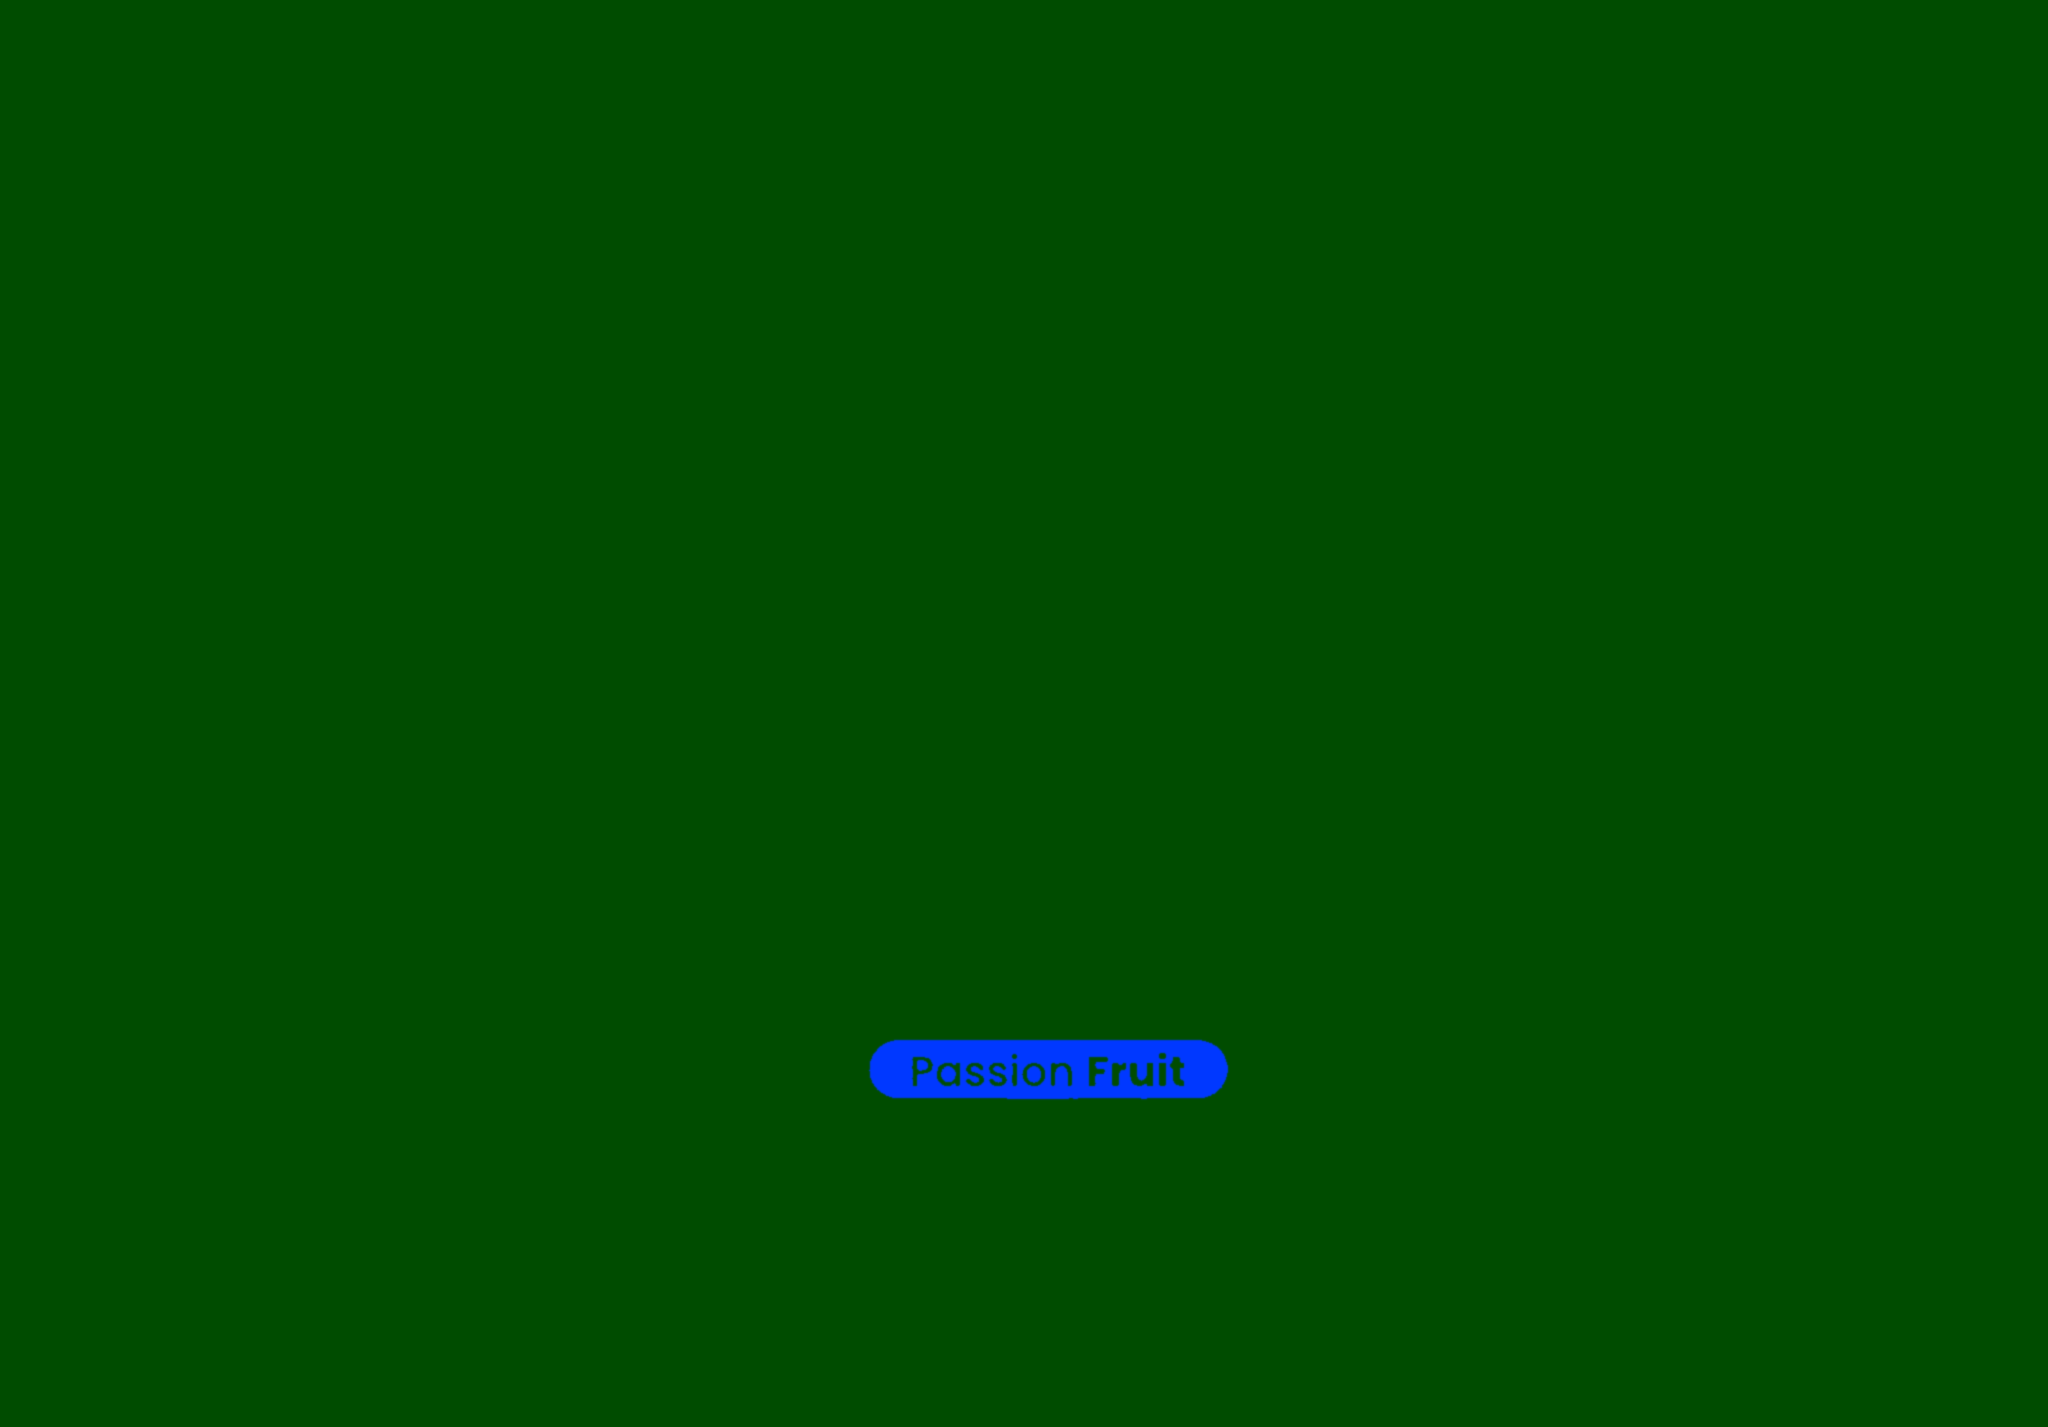
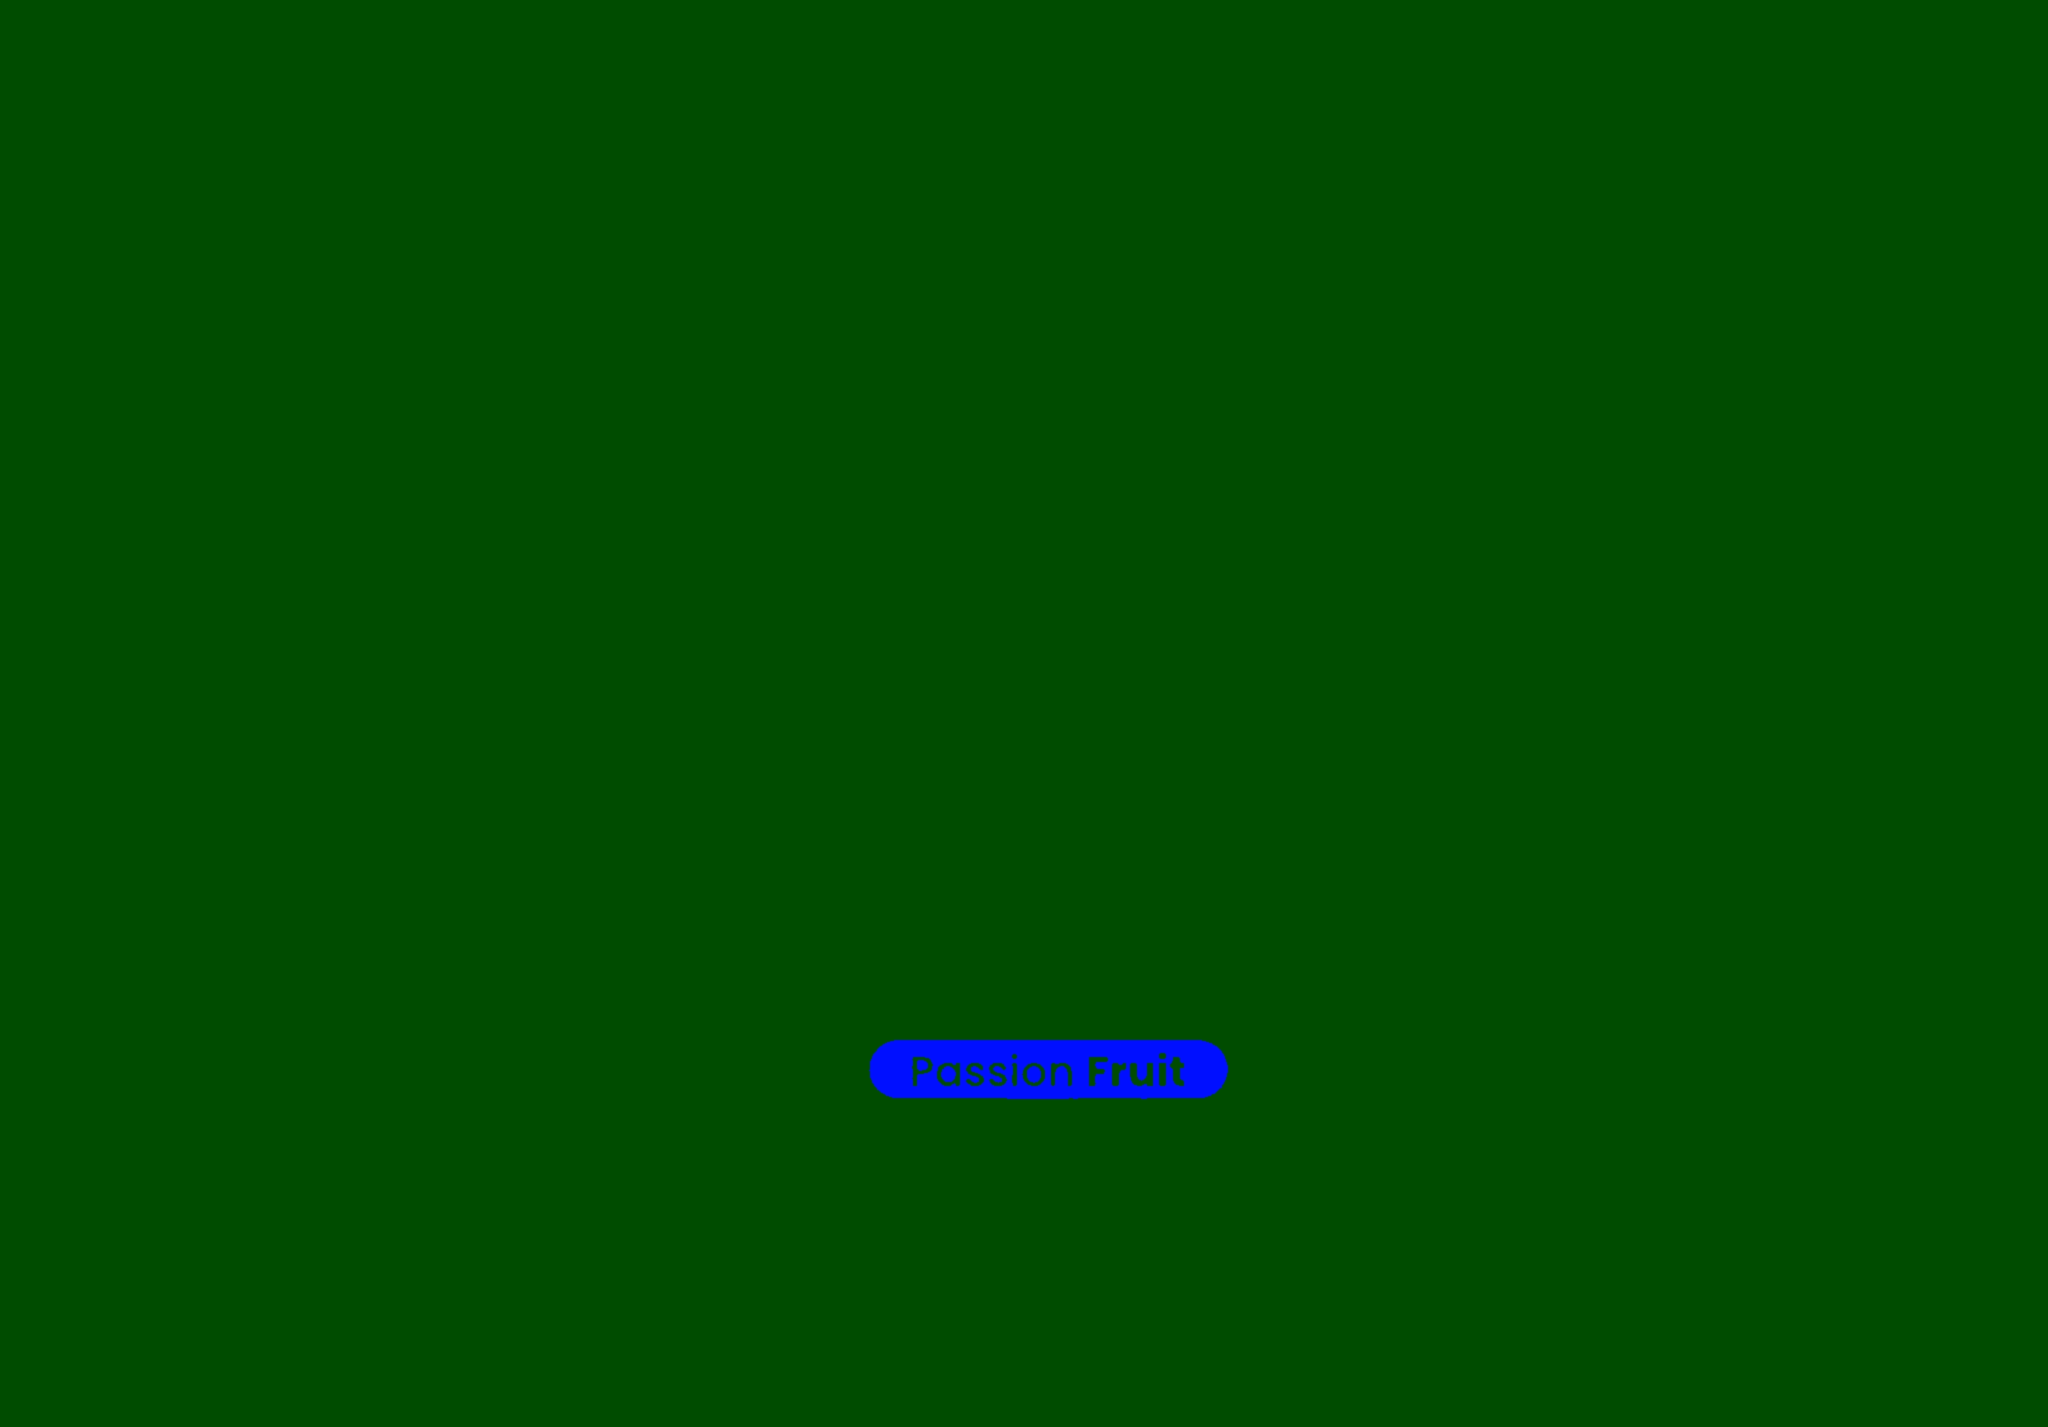
AWAMALA: burbujas que aumentan al bajar y no paran, píldora más metálica, ajustes responsive (320–1920 px)
Claude-Session: https://claude.ai/code/session_01VQkAGi9kU4y9DGeEXDPXZg

Changed region(s): [[0.4062, 0.7092, 0.625, 0.7708]]

diff --git a/awamala/index.html b/awamala/index.html
@@ -42,7 +42,7 @@ a{color:inherit}
 #stage{position:fixed;inset:0;width:100%;height:100%;display:block;z-index:2;pointer-events:none}
 main,header,footer{position:relative;z-index:1}
 main{overflow-x:clip}
-#bubbles{position:fixed;inset:0;width:100%;height:100%;display:block;z-index:0;pointer-events:none}
+#bubbles{position:fixed;left:0;top:0;width:100%;height:100vh;height:100lvh;display:block;z-index:0;pointer-events:none}
 
 /* ---- marquee ---- */
 .marquee{background:var(--ice);color:var(--teal);border-bottom:2px solid var(--teal);overflow:hidden;height:40px;display:flex;align-items:center;padding-top:env(safe-area-inset-top,0px)}
@@ -201,15 +201,15 @@ footer .credits a:hover{color:var(--ice)}
 /* tablero a sangre: foto media pantalla | texto; la segunda fila se invierte */
 .story{padding-inline:0}
 .story-box{padding-inline:clamp(16px,4vw,64px);margin-bottom:clamp(32px,4vw,56px)}
-.story-banner{position:relative;display:grid;min-height:clamp(340px,38vw,640px)}
+.story-banner{position:relative;display:grid;grid-template-columns:minmax(0,1fr);min-height:clamp(340px,38vw,640px)}
 .story-banner > *{grid-area:1/1}
-.story-banner .photo-slot{min-height:0;align-items:end;justify-items:end;padding:18px 22px}
+.story-banner .photo-slot{aspect-ratio:auto!important;min-height:0;align-items:end;justify-items:end;padding:18px 22px}
 .photo-slot.dark{background:linear-gradient(135deg,#0f5f7c,#3f97c2 55%,#9fd4f0);box-shadow:none}
 .photo-slot.dark span{color:var(--ice)}
 .banner-copy{position:relative;place-self:center;display:flex;flex-direction:column;align-items:center;gap:clamp(8px,1vw,16px);padding:24px 16px;text-align:center;color:#fff;text-shadow:0 2px 18px rgba(0,0,0,.28);pointer-events:none}
-.banner-copy p{margin:0;font:500 clamp(18px,2.2vw,34px)/1 var(--body);letter-spacing:.04em}
+.banner-copy p{margin:0;color:#fff;font:500 clamp(18px,2.2vw,34px)/1 var(--body);letter-spacing:.04em}
 .banner-copy sup{font-size:.5em;margin-left:2px}
-.banner-copy strong{font:900 clamp(44px,7.4vw,124px)/.92 var(--display);font-stretch:125%;text-transform:uppercase;text-wrap:balance}
+.banner-copy{max-width:100%}.banner-copy strong{font:900 clamp(32px,10.5vw,124px)/.92 var(--display);font-stretch:125%;text-transform:uppercase;text-wrap:balance}
 .story-split{display:grid;grid-template-columns:1fr 1fr;min-height:min(44vw,720px)}
 .story-split.flip .photo-slot{order:2}
 .photo-slot{margin:0;display:grid;place-items:center;min-height:320px;background:rgba(238,248,255,.55);background-image:repeating-linear-gradient(-45deg,rgba(15,95,124,.05) 0 14px,transparent 14px 28px)}
@@ -268,6 +268,7 @@ footer .credits a:hover{color:var(--ice)}
 .cta.big{min-height:56px;padding:0 32px;border:0;align-self:center;background:var(--teal);color:var(--ice);font-size:15px;cursor:pointer}
 .cta.big:hover{background:#0b4a61}
 .order .fine{margin:0;font:500 12px/1.4 var(--body);opacity:.8}
+@media (max-width:400px){.order-box{padding:22px 14px}.qrow{gap:8px;padding:10px 8px 10px 12px}.stepper{gap:2px;padding:3px}.stepper button{width:34px!important;height:34px!important;font-size:19px}.stepper input{width:34px!important;font-size:16px}.qname small{font-size:11.5px}}
 @media (max-width:560px){.fields{grid-template-columns:minmax(0,1fr)}.qrow{padding:10px 10px 10px 14px;gap:10px}.stepper button{width:38px;height:38px}.stepper input{width:44px}}
 
 /* ---- proforma (formato Lasso adaptado a AWAMALA) ---- */
@@ -306,6 +307,7 @@ footer .credits a:hover{color:var(--ice)}
 .cta.wa{min-height:52px;padding:0 26px;border:0;background:#1f9d55;color:#fff}
 .cta.wa:hover{background:#178246}
 @media (max-width:560px){.pf-parties{grid-template-columns:1fr}.pf-table th,.pf-table td{padding:8px 6px}.pf-actions{flex-direction:column;align-items:stretch;width:100%}}
+@media (max-width:440px){.pf-head{flex-direction:column;gap:12px}.pf-num{text-align:left}.proforma{padding:20px 16px;font-size:12px}.pf-table th{font-size:9.5px;letter-spacing:.04em;padding:7px 4px}.pf-table td{padding:8px 4px;white-space:normal}.pf-table td:not(:first-child){font-size:11.5px}.pf-table ul{font-size:10.5px;padding-left:13px}.pf-brand{display:none}}
 @media print{
   @page{size:A4;margin:12mm}
   body{background:#fff}
@@ -317,7 +319,8 @@ footer .credits a:hover{color:var(--ice)}
 }
 
 @media (max-width:560px){nav.top{gap:8px;padding-inline:16px}.nav-actions{gap:6px}.nav-actions .pill{padding:0 11px;min-height:40px;font-size:10px;letter-spacing:.02em}.nav-actions .ig-link{padding:0;width:40px;flex:none;justify-content:center}.nav-actions .ig-link span{display:none}.brand .mark{width:40px;height:40px}}
-@media (max-width:560px){.nav-actions .nav-sabores{display:none}}
+@media (max-width:900px){.nav-actions .nav-sabores{display:none}}
+@media (max-width:760px){.nav-actions .ig-link{padding:0;width:46px;flex:none}.nav-actions .ig-link span{display:none}}
 @media (max-width:350px){.nav-actions .pill{padding:0 8px;font-size:9.5px}.nav-actions .ig-link{width:36px;min-height:36px;padding:0}.brand .mark{width:32px;height:32px}}
 </style>
 </head>
@@ -590,7 +593,7 @@ var AW_PEDIDO = {
     ['passion', 'toronja'].forEach(function(k){
       var c = n(k); if (!c) return;
       var tot = P == null ? null : c * P; if (tot != null) sub += tot;
-      rows += '<tr><td><b>AWAMALA Hard Seltzer · ' + NAMES[k] + '</b><ul><li>Lata 330 ml</li><li>5% alc. vol. · 92 cal · 0 g azúcar</li></ul></td><td>' + c + '</td><td>' + (P == null ? 'Por confirmar' : money(P)) + '</td><td>' + (tot == null ? '—' : money(tot)) + '</td></tr>';
+      rows += '<tr><td><b><span class="pf-brand">AWAMALA Hard Seltzer · </span>' + NAMES[k] + '</b><ul><li>Lata 330 ml</li><li>5% alc. vol. · 92 cal · 0 g azúcar</li></ul></td><td>' + c + '</td><td>' + (P == null ? 'Por confirmar' : money(P)) + '</td><td>' + (tot == null ? '—' : money(tot)) + '</td></tr>';
       lines.push('• ' + NAMES[k] + ' × ' + c + (tot == null ? '' : ' = ' + money(tot)));
     });
     document.getElementById('pf-items').innerHTML = rows;
@@ -649,72 +652,78 @@ var AW_PEDIDO = {
 })();
 </script>
 <script>
-/* burbujas: al bajar suben repartidas en todo el ancho; cerca del final de la página burbujea como una gaseosa */
+/* burbujas: pocas al inicio; mientras más bajas, más salen, y ya no dejan de salir (el ritmo nunca baja).
+   Rendimiento: cada burbuja es un sprite pre-dibujado (drawImage), tope según el área de pantalla,
+   y el lienzo solo se re-dimensiona una vez por cuadro y solo si de verdad cambia su tamaño. */
 (function(){
   if (matchMedia('(prefers-reduced-motion: reduce)').matches) return;
   var cv = document.getElementById('bubbles'), ctx = cv.getContext('2d');
-  var W = 0, H = 0, dpr = 1, list = [], lastY = scrollY, last = performance.now(), fizzAcc = 0;
-  var streams = [];
+  var W = 0, H = 0, dpr = 1, list = [], lastY = scrollY, last = performance.now(), acc = 0, maxP = 0, cap = 120, pending = 0;
+  var SPR = [];   /* sprites: chico (trazo más grueso), mediano y grande */
+  function sprite(R, lw){
+    var c = document.createElement('canvas'), px = Math.ceil((R + lw) * 2 * dpr) + 2;
+    c.width = c.height = px; var g = c.getContext('2d'); g.scale(dpr, dpr);
+    var m = px / dpr / 2;
+    g.beginPath(); g.arc(m, m, R, 0, 6.2832); g.fillStyle = 'rgba(238,248,255,.8)'; g.fill();
+    g.lineWidth = lw; g.strokeStyle = 'rgba(15,95,124,.9)'; g.stroke();
+    if (R > 3) { g.beginPath(); g.arc(m - R * .35, m - R * .35, R * .22, 0, 6.2832); g.fillStyle = 'rgba(255,255,255,.9)'; g.fill(); }
+    return { c: c, R: R, half: px / dpr / 2 };
+  }
   function size(){
-    var oW = W, oH = H;
-    dpr = Math.min(devicePixelRatio || 1, 2); W = cv.clientWidth || innerWidth; H = cv.clientHeight || innerHeight;
-    /* al cambiar el tamaño, las burbujas que ya están en pantalla se reacomodan en proporción */
-    if (oW > 0 && oH > 0 && (oW !== W || oH !== H)) {
-      var sx = W / oW, sy = H / oH;
-      for (var k = 0; k < list.length; k++) { list[k].x *= sx; list[k].y *= sy; }
-    }
+    pending = 0;
+    var w = cv.clientWidth || innerWidth, h = cv.clientHeight || innerHeight, d = Math.min(devicePixelRatio || 1, 1.5);
+    if (w === W && h === H && d === dpr) return;   /* con alto 100lvh la barra de Safari no cambia el tamaño */
+    if (W > 0 && H > 0) { var sx = w / W, sy = h / H; for (var k = 0; k < list.length; k++) { list[k].x *= sx; list[k].y *= sy; } }
+    var redo = d !== dpr || !SPR.length;
+    W = w; H = h; dpr = d;
     cv.width = Math.round(W * dpr); cv.height = Math.round(H * dpr); ctx.setTransform(dpr, 0, 0, dpr, 0, 0);
-    streams = []; var n = Math.max(6, Math.round(W / 70));
-    for (var i = 0; i < n; i++) streams.push((i + 0.2 + Math.random() * 0.6) / n);   /* puntos de burbujeo repartidos a lo ancho */
+    cap = Math.round(Math.min(260, Math.max(80, W * H / 6000)));
+    if (redo) SPR = [sprite(4, 1), sprite(10, 1.3), sprite(22, 2.6)];
   }
-  addEventListener('resize', size); size();
-  function add(x, r, vy, amp){
-    if (list.length >= 320) return;
-    list.push({ x: x, y: H + r + Math.random() * 30, r: r, vy: vy, ph: Math.random() * 6.28, amp: amp, life: 0 });
+  function onResize(){ if (!pending) pending = requestAnimationFrame(size); }
+  addEventListener('resize', onResize);
+  if (window.visualViewport) visualViewport.addEventListener('resize', onResize);
+  size();
+  function add(r, vy, amp){
+    if (list.length >= cap) return;
+    list.push({ x: Math.random() * W, y: H + r + Math.random() * 30, r: r, vy: vy, ph: Math.random() * 6.28, amp: amp, life: 0,
+      s: r <= 4.5 ? SPR[0] : r <= 11 ? SPR[1] : SPR[2] });
   }
-  function scrollBubbles(n, boost){
-    for (var i = 0; i < n; i++) {
-      var r = 3 + Math.pow(Math.random(), 1.8) * 20;
-      add(Math.random() * W, r, 70 + Math.random() * 110 + boost, 6 + Math.random() * 16);
-    }
-  }
-  function progress(){   /* 0 arriba de la página, 1 al final */
+  function big(boost){ return add(3 + Math.pow(Math.random(), 1.8) * 20, 70 + Math.random() * 110 + boost, 6 + Math.random() * 16); }
+  function progress(){
     var max = document.documentElement.scrollHeight - innerHeight;
     return max > 0 ? Math.min(1, Math.max(0, scrollY / max)) : 0;
   }
   addEventListener('scroll', function(){
     var dy = scrollY - lastY; lastY = scrollY;
-    if (dy > 0 && Math.random() < 0.6) scrollBubbles(Math.min(3, Math.ceil(dy / 40)), Math.min(260, dy * 3));
+    maxP = Math.max(maxP, progress());
+    if (dy > 0 && Math.random() < 0.5) { var n = Math.min(3, Math.ceil(dy / 50)); while (n--) big(Math.min(240, dy * 3)); }
     for (var i = 0; i < list.length; i++) list[i].y -= dy * 0.25;
   }, { passive: true });
   function draw(now){
+    requestAnimationFrame(draw);
     var dt = Math.min((now - last) / 1000, 0.05); last = now;
-    if (Math.abs(cv.clientWidth - W) > 1 || Math.abs(cv.clientHeight - H) > 1) size();
-    /* efervescencia: arranca a mitad de página y crece hasta el final */
-    var fz = Math.max(0, (progress() - 0.45) / 0.55);
-    fizzAcc += dt * fz * fz * 130;
-    while (fizzAcc > 1) {
-      fizzAcc -= 1;
-      var sx = Math.random() * W;   /* repartidas al azar en todo el ancho */
-      add(sx, 1.6 + Math.random() * 4.5, 160 + Math.random() * 180, 1.5 + Math.random() * 3);
+    /* ritmo: ~1.2 burbujas/s arriba → ~56/s al haber llegado al final; nunca baja */
+    acc += dt * (1.2 + 55 * Math.pow(maxP, 1.3));
+    while (acc > 1) {
+      acc -= 1;
+      if (Math.random() < 0.35 + 0.35 * (1 - maxP)) big(0);
+      else add(1.6 + Math.random() * 4.5, 150 + Math.random() * 180, 1.5 + Math.random() * 3);
     }
     ctx.clearRect(0, 0, W, H);
     for (var i = list.length - 1; i >= 0; i--) {
-      var b = list[i]; b.life += dt; b.vy *= 0.997;
-      b.y -= b.vy * dt;
-      var x = b.x + Math.sin(b.life * 2.4 + b.ph) * b.amp;
+      var b = list[i]; b.life += dt; b.vy *= 0.997; b.y -= b.vy * dt;
       var a = Math.min(1, b.life * 3) * Math.max(0, Math.min(1, (b.y + b.r) / (H * 0.35)));
-      if (b.y < -b.r * 2 || (a <= 0 && b.life > 0.5)) { list.splice(i, 1); continue; }
+      if (b.y < -b.r * 2 || b.y > H + 100 || (a <= 0 && b.life > 0.5)) { list[i] = list[list.length - 1]; list.pop(); continue; }   /* las que el scroll empujó fuera por abajo liberan cupo */
+      var x = b.x + Math.sin(b.life * 2.4 + b.ph) * b.amp, k = b.r / b.s.R, h = b.s.half * k;
       ctx.globalAlpha = a;
-      ctx.beginPath(); ctx.arc(x, b.y, b.r, 0, 6.2832);
-      ctx.fillStyle = 'rgba(238,248,255,.8)'; ctx.fill();
-      ctx.lineWidth = Math.max(1, b.r * 0.12); ctx.strokeStyle = 'rgba(15,95,124,.9)'; ctx.stroke();
-      if (b.r > 3) { ctx.beginPath(); ctx.arc(x - b.r * 0.35, b.y - b.r * 0.35, b.r * 0.22, 0, 6.2832); ctx.fillStyle = 'rgba(255,255,255,.9)'; ctx.fill(); }
+      ctx.drawImage(b.s.c, x - h, b.y - h, h * 2, h * 2);
     }
     ctx.globalAlpha = 1;
-    requestAnimationFrame(draw);
   }
   requestAnimationFrame(draw);
+  /* arranca con unas pocas ya en pantalla */
+  for (var i = 0; i < 6; i++) { big(0); var b = list[list.length - 1]; if (b) { b.y = H * (0.35 + Math.random() * 0.65); b.life = 1; } }
 })();
 </script>
 
@@ -788,7 +797,7 @@ renderer.autoClear = false;
 
 let W = innerWidth, H = innerHeight;
 function resize(){ W = document.documentElement.clientWidth || innerWidth; H = innerHeight; renderer.setSize(W, H, false);   /* ancho visible real, sin la barra de desplazamiento */ cam.aspect = W / H; cam.updateProjectionMatrix(); }
-addEventListener('resize', resize); resize();
+let rzF = 0; addEventListener('resize', () => { if (!rzF) rzF = requestAnimationFrame(() => { rzF = 0; resize(); }); }); resize();   /* una vez por cuadro aunque lleguen muchos eventos */
 
 const TAN = Math.tan(THREE.MathUtils.degToRad(FOV / 2));
 const pxPerWorld = (z) => H / (2 * (CAMZ - z) * TAN);
@@ -811,7 +820,7 @@ function applyMap(root, map, mr){ /* mr = { mr: metal/rugosidad, em: color de la
     ms.forEach((m) => { if (/Etiqueta/.test(m.name)) {
       m.map = map; m.color.set(0xffffff);
       if (mr) { m.metalnessMap = mr.mr; m.roughnessMap = mr.mr; m.metalness = 1; m.roughness = 1;
-        m.emissiveMap = mr.em; m.emissive.set(0xffffff); m.emissiveIntensity = 0.45; }
+        m.emissiveMap = mr.em; m.emissive.set(0xffffff); m.emissiveIntensity = 0.32; }   /* menos color propio + rugosidad 0.06 = más foil */
       m.needsUpdate = true; } }); } });
 }
 function dataTex(u){ const t = texLoader.load(u); t.flipY = false; t.colorSpace = THREE.NoColorSpace; return t; }
@@ -897,7 +906,7 @@ function startBigJelly(){
     const holder = new THREE.Group(); j.position.sub(c); holder.add(j);
     holder.scale.setScalar(3.1 / Math.max(sz.x, sz.y, sz.z)); js.add(holder);
     document.documentElement.classList.add('jelly3d-on');
-    fit(); addEventListener('resize', fit);
+    fit(); let fitF = 0; addEventListener('resize', () => { if (!fitF) fitF = requestAnimationFrame(() => { fitF = 0; fit(); }); });
     let visible = true, spinV = 0;
     new IntersectionObserver((es) => { visible = es[0].isIntersecting; }).observe(cv);
     addEventListener('jellyswim', (e) => { spinV += (e.detail.dx >= 0 ? 1 : -1) * 0.45; });   /* clic: pequeño giro que vuelve solo */
